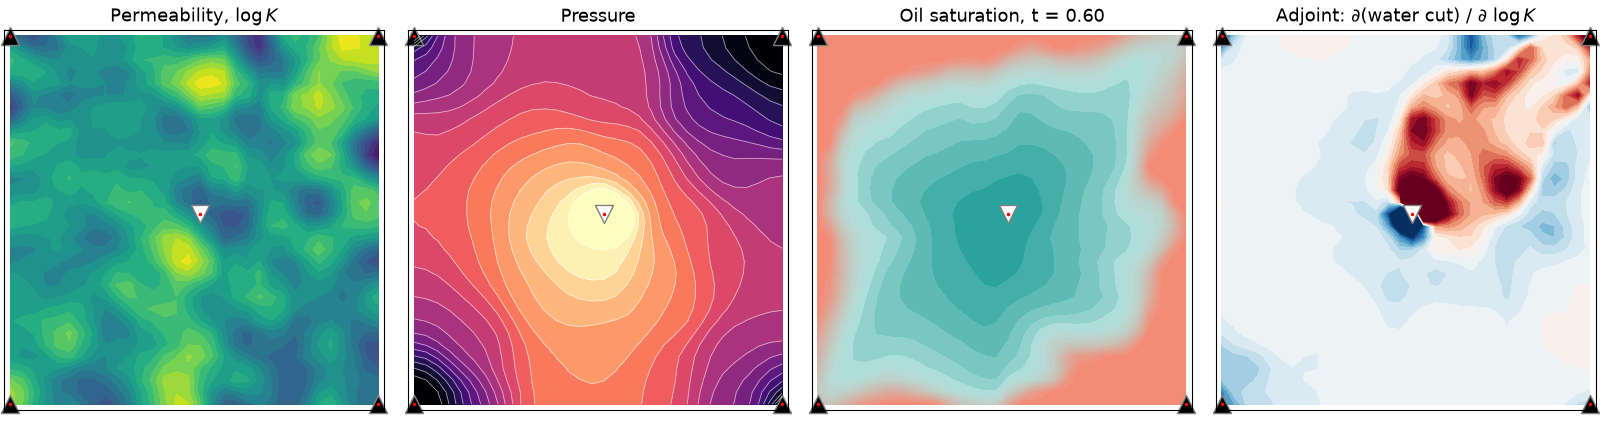
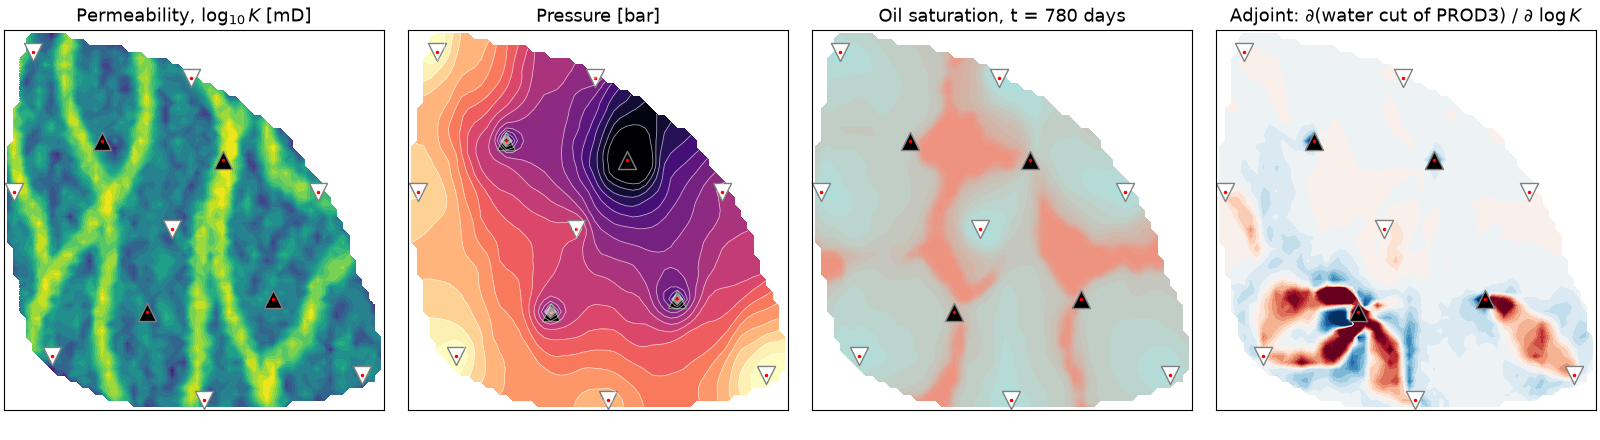
Use Egg model in collage.png

diff --git a/pdoc_template/collage.py b/pdoc_template/collage.py
@@ -9,9 +9,10 @@ Both re-plot *results* of the example modules (imported here, so they get run if
 have not been already), rather than pasting their saved figures, so that the panels
 share one look: square, uniform fonts, no colorbars.
 
-- `collage.png` (the README's banner): one simulation, `examples.water_cut_gradient`,
-  read left to right -- the permeability, the pressure it gives, the water it moves,
-  and the adjoint's sensitivity of the production to it.
+- `collage.png` (the README's banner): one simulation, `examples.egg`, read left to
+  right -- the permeability, the pressure it gives, the water it moves, and the
+  adjoint's sensitivity of the production to it (`TPFA_ResSim.tlm.adjoint`, run here
+  on the example's trajectory, since the example itself does not).
 - `collage_features.png`: one panel per feature, mostly a single axes of some
   example's figure, redrawn.
 """
@@ -25,6 +26,8 @@ from typing import Any
 import matplotlib.pyplot as plt
 import numpy as np
 from matplotlib.layout_engine import ConstrainedLayoutEngine
+
+from TPFA_ResSim.tlm import adjoint, fractional_flow
 
 root = Path(__file__).parent.parent
 sys.path.insert(0, str(root))  # makes `examples` importable
@@ -51,35 +54,46 @@ def field(model, ax, Z, style="default", **kws) -> Any:
 
 
 def hero(figsize=(16, 4.4)):
-    """One waterflood, from its permeability to the sensitivity of its production."""
-    wcg = example("water_cut_gradient")
-    model, k, t = wcg.model, wcg.k, wcg.k * wcg.dt
+    """The Egg model, from its permeability to the sensitivity of its production."""
+    egg = example("egg")
+    model, active = egg.model, egg.footprint.ravel()
     fig, axs = plt.subplots(ncols=4, figsize=figsize,
                             layout=ConstrainedLayoutEngine(wspace=.06))
 
-    field(model, axs[0], wcg.logK, cmap="viridis", levels=17,
-          title="Permeability, $\\log K$")
+    # The objective of the adjoint: the water cut of PROD3 just after its
+    # breakthrough (the first report where it exceeds one half), at time index
+    # `k` -- which the pressure and saturation panels are also shown at. The
+    # sweep needs only run up to `k` (later steps cannot affect the objective).
+    well = egg.names.index("PROD3")
+    k = 1 + int(np.argmax(egg.cut[:, well] > .5))
+    cell = egg.cells[well]
+    dJ_dSS = np.zeros_like(egg.SS[:k + 1])
+    dJ_dSS[k, cell] = fractional_flow(model, egg.SS[k])[1][cell]  # f_w'(s)
+    G = adjoint(model, egg.dt, egg.SS[:k + 1], egg.PP[:k + 1], dJ_dSS).logK.sum(0)
+
+    field(model, axs[0], np.log10(egg.K).ravel(), cmap="viridis",
+          levels=np.linspace(2, 3.7, 18), title="Permeability, $\\log_{10} K$ [mD]")
 
     # The colour scale is clipped at the wells (the cmap's `over`/`under` make
     # `plt_field` extend rather than blank), whose spikes would otherwise take
     # all the levels, leaving the field between them a single colour.
-    P = wcg.PP[k]
-    lo, hi = np.percentile(P, [2, 98])
+    P = egg.PP[k]
+    lo, hi = np.percentile(P[active], [2, 98])
     levels = np.linspace(lo, hi, 17)
     cmap = plt.get_cmap("magma")
     cmap = cmap.with_extremes(over=cmap(1.0), under=cmap(0.0))
-    field(model, axs[1], P, cmap=cmap, levels=levels, title="Pressure")
-    axs[1].contour(P.reshape(model.shape).T, levels=levels, colors="w",
-                   linewidths=.6, alpha=.6, origin="lower",
+    field(model, axs[1], P, cmap=cmap, levels=levels, title="Pressure [bar]")
+    axs[1].contour(np.where(active, P, np.nan).reshape(model.shape).T, levels=levels,
+                   colors="w", linewidths=.6, alpha=.6, origin="lower",
                    extent=(0, model.Lx, 0, model.Ly))
 
-    field(model, axs[2], wcg.SS[k], "oil", title=f"Oil saturation, t = {t:.2f}")
+    field(model, axs[2], egg.SS[k], "oil", title=f"Oil saturation, t = {k*egg.dt} days")
 
-    m = np.percentile(abs(wcg.G), 98)
+    m = np.percentile(abs(G.ravel()[active]), 98)
     cmap = plt.get_cmap("RdBu_r")
     cmap = cmap.with_extremes(over=cmap(1.0), under=cmap(0.0))
-    field(model, axs[3], wcg.G, cmap=cmap, levels=np.linspace(-m, m, 21),
-          title="Adjoint: ∂(water cut) / ∂ $\\log K$")
+    field(model, axs[3], G, cmap=cmap, levels=np.linspace(-m, m, 21),
+          title=f"Adjoint: ∂(water cut of {egg.names[well]}) / ∂ $\\log K$")
 
     for ax in axs:
         ax.title.set_fontsize(13)

diff --git a/README.md b/README.md
@@ -13,7 +13,7 @@ using TPFA (two-point flux approximation).
 - **reliable**: reproduces the numbers of the [Matlab code (2007)](http://folk.ntnu.no/andreas/papers/ResSimMatlab.pdf) from NTNU/Sintef by Jørg E. Aarnes, Tore Gimse, and Knut–Andreas Lie
 - extensively **tested** and **documented**
 
-![One waterflood: permeability, pressure, water front, and the adjoint sensitivity](collage.png)
+![The Egg model: permeability, pressure, oil saturation, and the adjoint sensitivity of a producer's water cut](collage.png)
 
 ## Examples
 

diff --git a/TPFA_ResSim/README.md b/TPFA_ResSim/README.md
@@ -3,7 +3,7 @@ TPFA-ResSim is a
 reservoir simulator
 using TPFA (two-point flux approximation).
 
-![One waterflood: permeability, pressure, water front, and the adjoint sensitivity](collage.png)
+![The Egg model: permeability, pressure, oil saturation, and the adjoint sensitivity of a producer's water cut](collage.png)
 
 See `examples` for more demonstrations.
 
